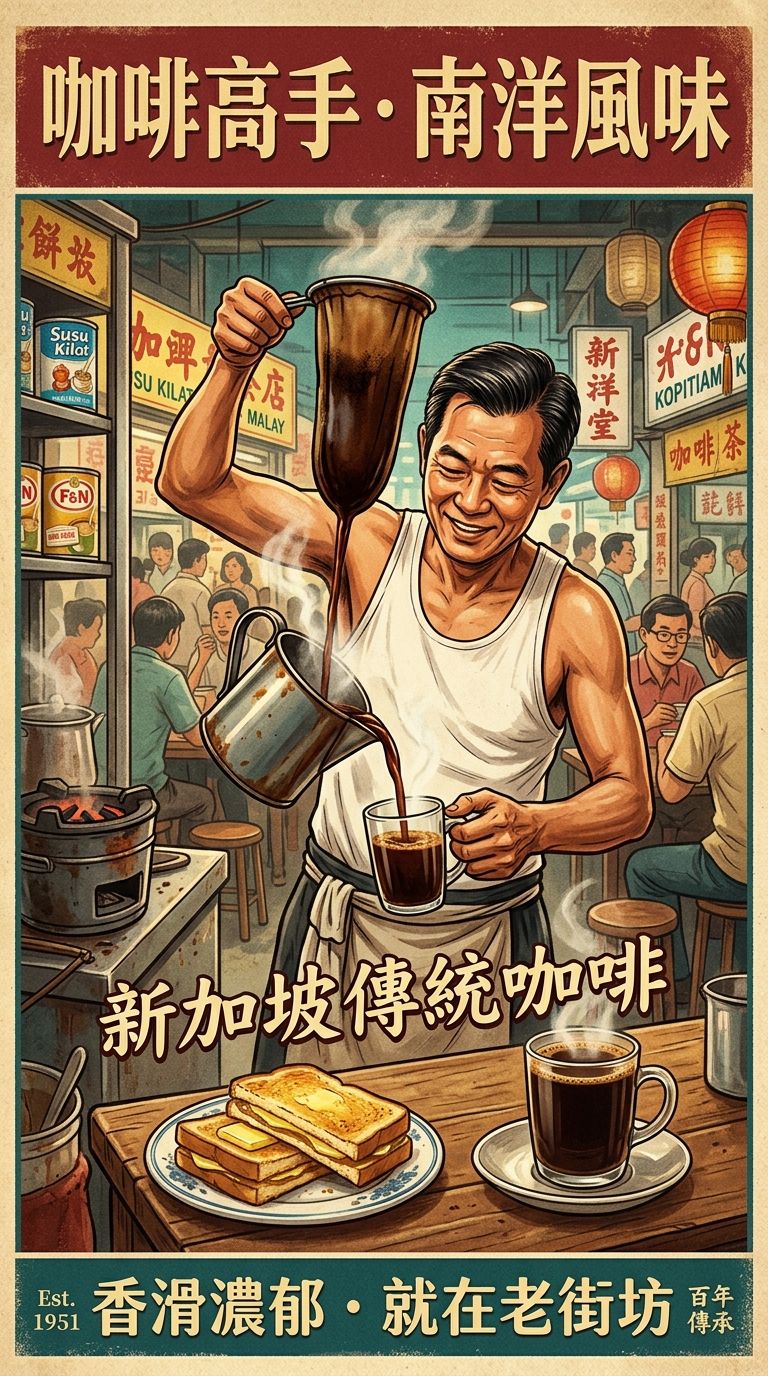
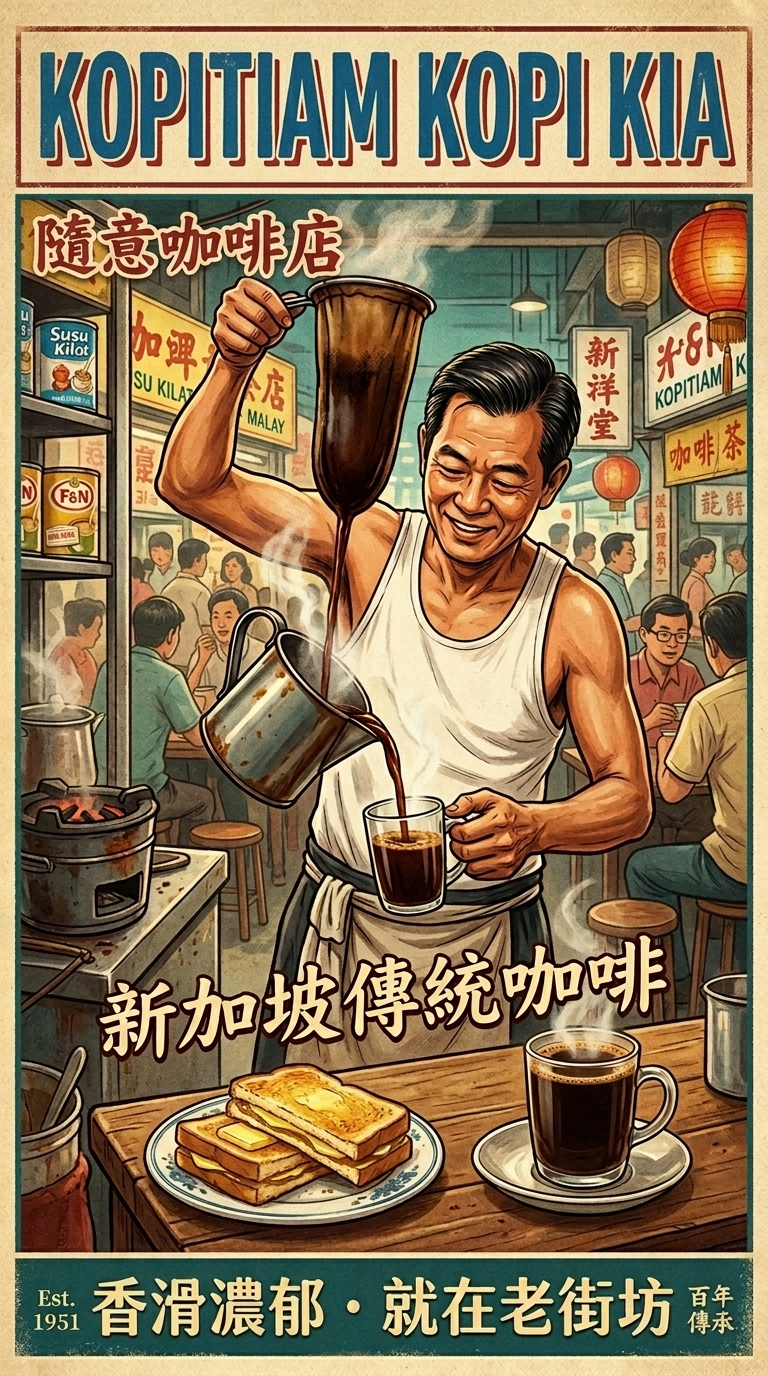
feat: embed English 'KOPITIAM KOPI KIA' and Chinese calligraphy title '隨意咖啡店' directly into 9:16 mobile poster cover art

diff --git a/index.html b/index.html
@@ -31,7 +31,7 @@
   <link rel="preconnect" href="https://fonts.googleapis.com">
   <link rel="preconnect" href="https://fonts.gstatic.com" crossorigin>
   <link href="https://fonts.googleapis.com/css2?family=Outfit:wght@400;600;700;800;900&family=Playfair+Display:ital,wght@1,800;1,900&family=Noto+Serif+TC:wght@700;900&display=swap" rel="stylesheet">
-  <link rel="stylesheet" href="style.css?v=22.0">
+  <link rel="stylesheet" href="style.css?v=23.0">
 </head>
 <body>
 
@@ -519,11 +519,11 @@
 
   <!-- JavaScript Modules & 3D WebGL Engine -->
   <script src="https://cdnjs.cloudflare.com/ajax/libs/three.js/r128/three.min.js"></script>
-  <script src="js/audio.js?v=22.0"></script>
-  <script src="js/recipes.js?v=22.0"></script>
-  <script src="js/game.js?v=22.0"></script>
-  <script src="js/ux_agent.js?v=22.0"></script>
-  <script src="js/three_mug.js?v=22.0"></script>
+  <script src="js/audio.js?v=23.0"></script>
+  <script src="js/recipes.js?v=23.0"></script>
+  <script src="js/game.js?v=23.0"></script>
+  <script src="js/ux_agent.js?v=23.0"></script>
+  <script src="js/three_mug.js?v=23.0"></script>
 
 </body>
 </html>
